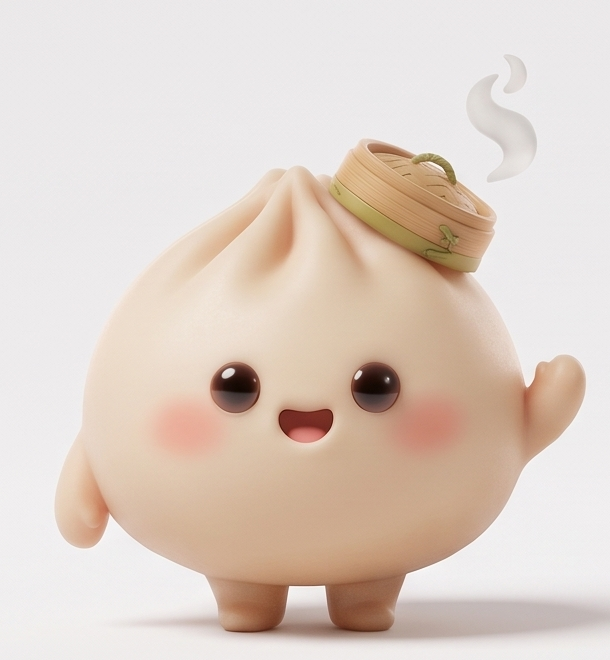
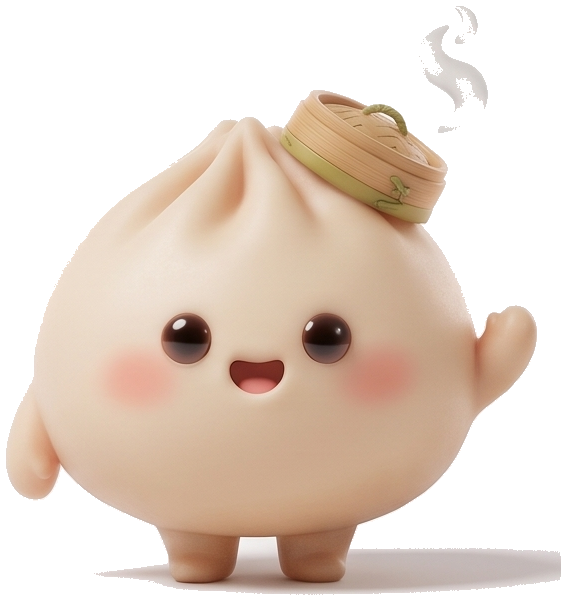
Cut background from waving mascot, transparent PNG cutout, and use pre-rendered 2x retina badge for 包宝

Changed region(s): [[0.0, 0.0, 1.0, 0.99], [0.1818, 0.51, 0.6667, 0.69]]

diff --git a/app.html b/app.html
@@ -13980,6 +13980,19 @@ details.bkrs-examples-details[open] .bkrs-ex-hint {
             color: #334155;
         }
 
+
+        .home-brand-badge-img {
+            height: 25px !important;
+            width: auto !important;
+            max-width: 60px !important;
+            vertical-align: middle !important;
+            margin-left: 10px !important;
+            display: inline-block !important;
+            filter: drop-shadow(0 3px 10px rgba(16, 185, 129, 0.35)) !important;
+            flex-shrink: 0 !important;
+            object-fit: contain !important;
+        }
+
 </style>
     <script src="data/grammar_hsk1/hsk1_grammar_full.js"></script>
 </head>
@@ -14001,17 +14014,7 @@ details.bkrs-examples-details[open] .bkrs-ex-hint {
                 <div class="home-brand-row">
                     <img src="images/baobao_avatar_clean.png" alt="БаоБао" class="home-brand-avatar">
                     <div class="home-brand-meta">
-                        <h1 class="home-brand-title">БаоБао <svg class="home-brand-tag-svg" width="56" height="24" viewBox="0 0 56 24" fill="none" xmlns="http://www.w3.org/2000/svg" style="vertical-align: middle; margin-left: 10px; flex-shrink: 0; display: inline-block;">
-    <rect width="56" height="24" rx="12" fill="url(#baoBaoTagGrad)" />
-    <defs>
-        <linearGradient id="baoBaoTagGrad" x1="0" y1="0" x2="56" y2="24" gradientUnits="userSpaceOnUse">
-            <stop stop-color="#10B981" />
-            <stop offset="1" stop-color="#059669" />
-        </linearGradient>
-    </defs>
-    <text x="15" y="16.5" font-family="-apple-system, BlinkMacSystemFont, 'Segoe UI', 'PingFang SC', 'Microsoft YaHei', sans-serif" font-size="13" font-weight="700" fill="#ffffff" text-anchor="middle">包</text>
-    <text x="39" y="16.5" font-family="-apple-system, BlinkMacSystemFont, 'Segoe UI', 'PingFang SC', 'Microsoft YaHei', sans-serif" font-size="13" font-weight="700" fill="#ffffff" text-anchor="middle">宝</text>
-</svg></h1>
+                        <h1 class="home-brand-title">БаоБао <img src="images/baobao_brand_badge.png" alt="包宝" class="home-brand-badge-img" width="58" height="25"></h1>
                         <p class="home-brand-sub">Твой помощник в изучении китайского языка</p>
                     </div>
                 </div>
@@ -14053,7 +14056,7 @@ details.bkrs-examples-details[open] .bkrs-ex-hint {
                     <div class="baobao-speech-bubble">
                         <span>你好！</span>
                     </div>
-                    <img src="images/baobao_waving.png" alt="БаоБао машет ручкой" class="baobao-welcome-img">
+                    <img src="images/baobao_waving_transparent.png" alt="БаоБао машет ручкой" class="baobao-welcome-img">
                 </div>
                 <div class="baobao-welcome-content">
                     <h2 class="baobao-welcome-title">Привет-привет! Я БаоБао 🥟👋</h2>

diff --git a/index.html b/index.html
@@ -13980,6 +13980,19 @@ details.bkrs-examples-details[open] .bkrs-ex-hint {
             color: #334155;
         }
 
+
+        .home-brand-badge-img {
+            height: 25px !important;
+            width: auto !important;
+            max-width: 60px !important;
+            vertical-align: middle !important;
+            margin-left: 10px !important;
+            display: inline-block !important;
+            filter: drop-shadow(0 3px 10px rgba(16, 185, 129, 0.35)) !important;
+            flex-shrink: 0 !important;
+            object-fit: contain !important;
+        }
+
 </style>
     <script src="data/grammar_hsk1/hsk1_grammar_full.js"></script>
 </head>
@@ -14001,17 +14014,7 @@ details.bkrs-examples-details[open] .bkrs-ex-hint {
                 <div class="home-brand-row">
                     <img src="images/baobao_avatar_clean.png" alt="БаоБао" class="home-brand-avatar">
                     <div class="home-brand-meta">
-                        <h1 class="home-brand-title">БаоБао <svg class="home-brand-tag-svg" width="56" height="24" viewBox="0 0 56 24" fill="none" xmlns="http://www.w3.org/2000/svg" style="vertical-align: middle; margin-left: 10px; flex-shrink: 0; display: inline-block;">
-    <rect width="56" height="24" rx="12" fill="url(#baoBaoTagGrad)" />
-    <defs>
-        <linearGradient id="baoBaoTagGrad" x1="0" y1="0" x2="56" y2="24" gradientUnits="userSpaceOnUse">
-            <stop stop-color="#10B981" />
-            <stop offset="1" stop-color="#059669" />
-        </linearGradient>
-    </defs>
-    <text x="15" y="16.5" font-family="-apple-system, BlinkMacSystemFont, 'Segoe UI', 'PingFang SC', 'Microsoft YaHei', sans-serif" font-size="13" font-weight="700" fill="#ffffff" text-anchor="middle">包</text>
-    <text x="39" y="16.5" font-family="-apple-system, BlinkMacSystemFont, 'Segoe UI', 'PingFang SC', 'Microsoft YaHei', sans-serif" font-size="13" font-weight="700" fill="#ffffff" text-anchor="middle">宝</text>
-</svg></h1>
+                        <h1 class="home-brand-title">БаоБао <img src="images/baobao_brand_badge.png" alt="包宝" class="home-brand-badge-img" width="58" height="25"></h1>
                         <p class="home-brand-sub">Твой помощник в изучении китайского языка</p>
                     </div>
                 </div>
@@ -14053,7 +14056,7 @@ details.bkrs-examples-details[open] .bkrs-ex-hint {
                     <div class="baobao-speech-bubble">
                         <span>你好！</span>
                     </div>
-                    <img src="images/baobao_waving.png" alt="БаоБао машет ручкой" class="baobao-welcome-img">
+                    <img src="images/baobao_waving_transparent.png" alt="БаоБао машет ручкой" class="baobao-welcome-img">
                 </div>
                 <div class="baobao-welcome-content">
                     <h2 class="baobao-welcome-title">Привет-привет! Я БаоБао 🥟👋</h2>
